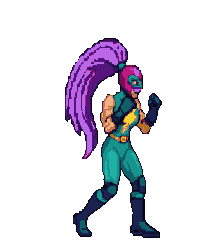
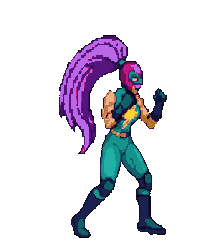
Walk de paso corto cruzado, con la referencia de Cammy
- Se guarda la hoja de Cammy en la guia y se rehace ref/walk_ref.png con su
  fila Walking y la de Chun-Li al lado de la stance aprobada.
- Walk nuevo: piernas juntas, un pie cruza por delante del otro, solo se
  levanta el talon, guardia alta y vista lateral. 4 frames, mascara 29-30 px,
  15 colores, 0 fuera de paleta y tonos a menos de 2 puntos de la stance.
- GUIA: el paso corto cruzado sustituye a la zancada abierta, y se prohibe el
  frame achatado o ensanchado.

Changed region(s): [[0.27, 0.1458, 0.84, 0.9917]]

diff --git a/preview/nueva.html b/preview/nueva.html
@@ -117,7 +117,7 @@
 (() => {
   // El archivo no se toca y el escenario no lo escala: 200 nativos, 1:1.
   // ?v= para que el navegador no sirva el PNG viejo de esta misma ruta.
-  window.STAGE_FIGHTER = '../voltia/nueva/stance/00.png?v=24';
+  window.STAGE_FIGHTER = '../voltia/nueva/stance/00.png?v=25';
   // Suelo en el centro del rombo dibujado (spec.floorY es 408, el borde trasero).
   window.STAGE_FLOOR_Y = 426;
   window.STAGE_FIGHTER_SCALE = 1;
@@ -202,7 +202,7 @@
     note.textContent = anim.note || '';
     for (const f of anim.frames) {
       const im = new Image();
-      im.src = '../voltia/' + anim.dir + '/' + f + '?v=24';
+      im.src = '../voltia/' + anim.dir + '/' + f + '?v=25';
       await im.decode();
       imgs.push(im);
     }
@@ -210,7 +210,7 @@
     draw();
   }
   try {
-    const guide = await (await fetch('../voltia/guide/style.json?v=24',
+    const guide = await (await fetch('../voltia/guide/style.json?v=25',
       { cache: 'no-store' })).json();
     window.__GUIDE = guide;
     const entries = Object.entries(guide.anims || {});

diff --git a/voltia/guide/GUIA.md b/voltia/guide/GUIA.md
@@ -241,16 +241,21 @@ La referencia de animación está en el repo y no se toca:
 
 - `ref/chunli_sf2_sheet.png` — hoja de Chun-Li de SF2 (dibujo y animación).
 - `ref/blue_mary_sheet.png` — hoja de Blue Mary de KOF (misma lectura, otro juego).
-- `ref/walk_ref.png` — la fila **Walking** de SF2 recortada, al lado de la stance
-  aprobada de Voltia. Esta es la que se mira antes de generar un walk.
+- `ref/cammy_sf2_sheet.png` — hoja de Cammy de SF2. Su fila Walking es la que
+  mejor resuelve el paso: **corto, cruzado y con las piernas juntas**.
+- `ref/walk_ref.png` — las filas Walking de Cammy y de Chun-Li recortadas, al
+  lado de la stance aprobada de Voltia. Esta es la que se mira antes de generar
+  un walk.
 
 Lo que dicen esas tres filas, y lo que hay que copiar (sin plagiar el dibujo):
 
 1. **Se anda en guardia.** Los puños siguen arriba, a la altura de la barbilla,
    los codos recogidos. Nunca los brazos colgando: eso convierte el walk en un
    paseo de pasarela, que es justo el desastre de la primera prueba.
-2. **Pasos cortos.** Los pies se separan poco, la zancada es pequeña y rápida;
-   el talón de atrás se levanta y el de delante apoya plano.
+2. **Pasos cortos y cruzados.** Las piernas se quedan juntas y un pie pasa por
+   delante del otro; el talón de atrás se levanta y el de delante apoya plano.
+   Con la zancada abierta la silueta se ensancha y el paso se ve tosco; con el
+   paso cruzado el ciclo aguanta con cuatro poses.
 3. **Ningún pie se levanta más que su propia bota.** Nada de rodilla al pecho.
 4. **La cabeza no sube ni baja.** El torso va erguido y la línea del pelo se
    mantiene: si la cabeza baila, parece que salta, no que anda.
@@ -259,6 +264,9 @@ Lo que dicen esas tres filas, y lo que hay que copiar (sin plagiar el dibujo):
    cambio de pierna y la que aguanta un ciclo corto.
 6. **Cuatro poses por ciclo** (las cuatro de la fila de SF2): contacto, paso,
    contacto contrario, paso. La coleta va un pelo por detrás del cuerpo.
+7. **Nada de frames achatados ni ensanchados.** Todos los frames tienen que
+   conservar el mismo ancho de cuerpo y la misma silueta de coleta; si al cruzar
+   las piernas uno se estrecha, se tira.
 
 Con esto, la alternancia ya no se pide como un truco de tonos: se pide como una
 pose más, con la pierna contraria delante y el mismo puño arriba.
